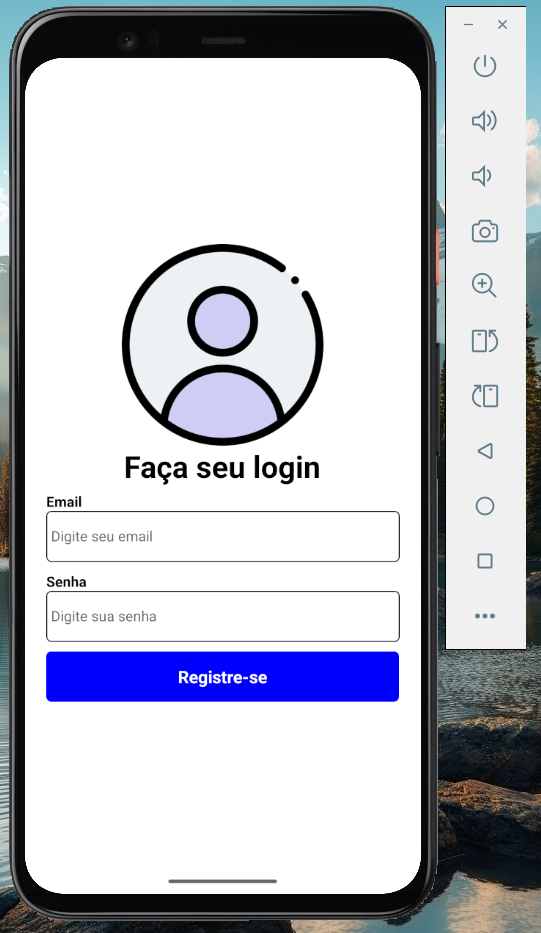
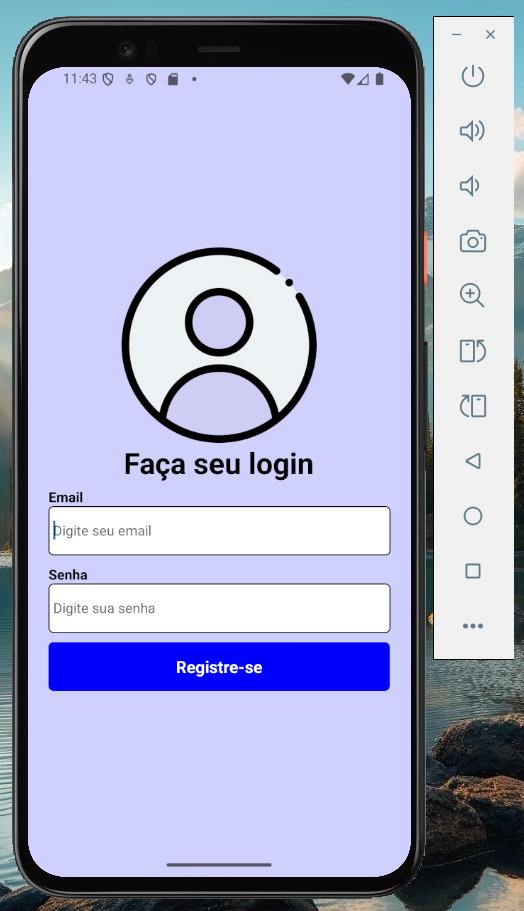
login

diff --git a/App/App.js b/App/App.js
@@ -66,6 +66,7 @@ const styles = StyleSheet.create({
     backgroundColor: '#fff',
     alignItems: 'center',
     justifyContent: 'center',
+    backgroundColor: '#D0D0FF'
   },
   titulo: {
     fontSize: 30,
@@ -76,6 +77,7 @@ const styles = StyleSheet.create({
     height: 50,
     borderRadius: 5,
     borderWidth: 1,
+    backgroundColor: '#FFF'
   },
   botao: {
     margin: 5,
